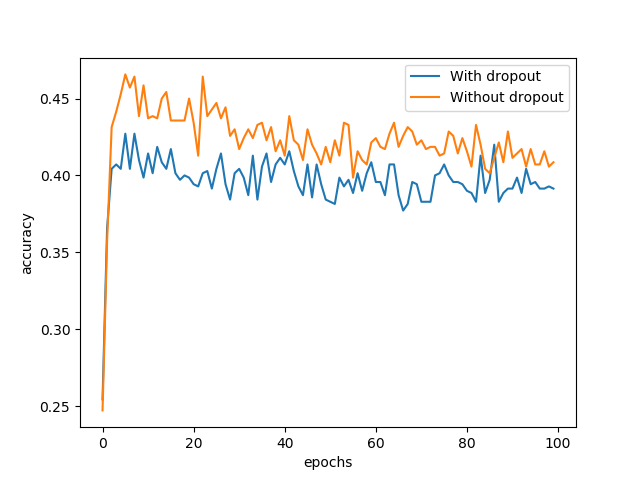
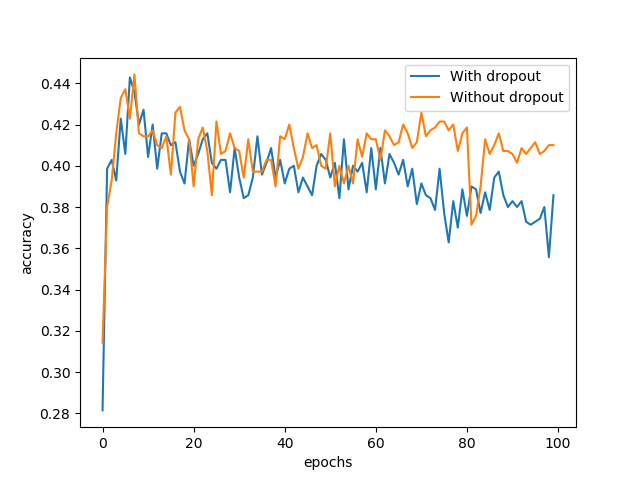
update

diff --git a/partb_5(3)_merged.py b/partb_5(3)_merged.py
@@ -3,6 +3,7 @@ import pandas
 import tensorflow as tf
 import csv
 import pylab
+import time
 
 import os
 
@@ -115,7 +116,7 @@ def main():
     with tf.Session() as sess:
         sess.run(tf.global_variables_initializer())
 
-        # training
+        # with dropout
         loss = []
         loss_batch = []
         acc = []
@@ -129,21 +130,30 @@ def main():
         N = len(x_train)
         idx = np.arange(N)
 
+        training_time_1 = 0     # with dropout
+        training_time_2 = 0     # without dropout
+        training_time = [[],[]]
+
+
         for e in range(no_epochs):
             np.random.shuffle(idx)
             trainX_batch, trainY_batch = x_train[idx], y_train[idx]
 
             for start, end in zip(range(0, N, batch_size), range(batch_size, N, batch_size)):
+                start1 = time.time()
                 word_list_, _, loss_  = sess.run([word_list, train_op, entropy], {x: trainX_batch[start:end], y_: trainY_batch[start:end], keep_prob:0.5})
                 loss_batch.append(loss_)
+                training_time_1 += time.time() - start1
 
                 #without dropout
+                start2 = time.time()
                 word_list2_, _, loss2_ = sess.run([word_list2, train_op2, entropy2], {x2: trainX_batch[start:end], y2_: trainY_batch[start:end]})
                 loss_batch2.append(loss2_)
+                training_time_2 += time.time() - start2
 
             loss.append(sum(loss_batch) / len(loss_batch))
             loss_batch[:] = []
-            acc.append(accuracy.eval(feed_dict={x: x_test, y_: y_test, keep_prob:0.5}))
+            acc.append(accuracy.eval(feed_dict={x: x_test, y_: y_test, keep_prob:1}))
 
             #without dropout
             loss2.append(sum(loss_batch2) / len(loss_batch2))
@@ -155,6 +165,12 @@ def main():
                 print('With dropout, epoch: %d, accuracy: %g' %(e, acc[e]))
                 print('Without dropout, epoch: %d, entropy: %g' % (e, loss2[e]))
                 print('Without dropout, epoch: %d, accuracy: %g' % (e, acc2[e]))
+
+        training_time[0] = training_time_1
+        training_time[1] = training_time_2
+        labels = ['With dropout', 'Without dropout']
+        x = [0,1]
+
 
         pylab.figure(1)
         pylab.plot(range(len(loss)), loss)
@@ -172,7 +188,15 @@ def main():
         pylab.legend(['With dropout', 'Without dropout'])
         pylab.savefig('figures/partb_5(3)_accuracy_merged.png')
 
+        pylab.figure(3)
+        pylab.plot(range(len(training_time)), training_time)
+        pylab.ylabel('training time')
+        pylab.xticks(x, labels)
+        pylab.savefig('figures/partb_5(3)_trainingtime_merged.png')
+
         pylab.show()
+
+        sess.close()
   
 if __name__ == '__main__':
     main()

diff --git a/partb_5(4)_merged.py b/partb_5(4)_merged.py
@@ -3,7 +3,7 @@ import pandas
 import tensorflow as tf
 import csv
 import pylab
-
+import time
 import os
 
 
@@ -134,21 +134,29 @@ def main():
         N = len(x_train)
         idx = np.arange(N)
 
+        training_time_1 = 0  # with dropout
+        training_time_2 = 0  # without dropout
+        training_time = [[], []]
+
         for e in range(no_epochs):
             np.random.shuffle(idx)
             trainX_batch, trainY_batch = x_train[idx], y_train[idx]
 
             for start, end in zip(range(0, N, batch_size), range(batch_size, N, batch_size)):
+                start1 = time.time()
                 word_list_, _, loss_  = sess.run([word_list, train_op, entropy], {x: trainX_batch[start:end], y_: trainY_batch[start:end], keep_prob:0.5})
                 loss_batch.append(loss_)
+                training_time_1 += time.time() - start1
 
                 # without dropout
+                start2 = time.time()
                 word_list2_, _, loss2_ = sess.run([word_list2, train_op2, entropy2],{x2: trainX_batch[start:end], y2_: trainY_batch[start:end]})
                 loss_batch2.append(loss2_)
+                training_time_2 += time.time() - start2
 
             loss.append(sum(loss_batch) / len(loss_batch))
             loss_batch[:] = []
-            acc.append(accuracy.eval(feed_dict={x: x_test, y_: y_test, keep_prob:0.5}))
+            acc.append(accuracy.eval(feed_dict={x: x_test, y_: y_test, keep_prob:1}))
 
             #without dropout
             loss2.append(sum(loss_batch2) / len(loss_batch2))
@@ -160,6 +168,11 @@ def main():
                 print('With dropout, epoch: %d, accuracy: %g' %(e, acc[e]))
                 print('Without dropout, epoch: %d, entropy: %g' % (e, loss2[e]))
                 print('Without dropout, epoch: %d, accuracy: %g' % (e, acc2[e]))
+
+        training_time[0] = training_time_1
+        training_time[1] = training_time_2
+        labels = ['With dropout', 'Without dropout']
+        x = [0, 1]
 
         pylab.figure(1)
         pylab.plot(range(len(loss)), loss)
@@ -177,7 +190,15 @@ def main():
         pylab.legend(['With dropout', 'Without dropout'])
         pylab.savefig('figures/partb_5(4)_accuracy_merged.png')
 
+        pylab.figure(3)
+        pylab.plot(range(len(training_time)), training_time)
+        pylab.ylabel('training time')
+        pylab.xticks(x, labels)
+        pylab.savefig('figures/partb_5(4)_trainingtime_merged.png')
+
         pylab.show()
+
+        sess.close()
   
 if __name__ == '__main__':
     main()

diff --git a/partb_5(2)_merged.py b/partb_5(2)_merged.py
@@ -3,7 +3,7 @@ import pandas
 import tensorflow as tf
 import csv
 import pylab
-
+import time
 import os
 
 if not os.path.isdir('figures'):
@@ -195,19 +195,27 @@ def main():
         #breaking down into batches
         N = len(x_train)
         idx = np.arange(N)
-        
+
+        training_time_1 = 0  # with dropout
+        training_time_2 = 0  # without dropout
+        training_time = [[], []]
+
         for e in range(no_epochs):
             np.random.shuffle(idx)
             trainX_batch, trainY_batch = x_train[idx], y_train[idx]
 
             #batch training
             for start, end in zip(range(0, N, batch_size), range(batch_size, N, batch_size)):
+                start1 = time.time()
                 _, loss_ = sess.run([train_op, entropy], {x: trainX_batch[start:end], y_: trainY_batch[start:end]})
                 loss_batch.append(loss_)
+                training_time_1 += time.time() - start1
 
                 #without dropout
+                start2 = time.time()
                 _, loss2_ = sess.run([train_op2, entropy2], {x2: trainX_batch[start:end], y2_: trainY_batch[start:end]})
                 loss_batch2.append(loss2_)
+                training_time_2 += time.time() - start2
 
             loss.append(sum(loss_batch)/len(loss_batch))
             loss_batch[:] = []
@@ -223,6 +231,11 @@ def main():
                 print('With dropout, iter: %d, accuracy: %g'%(e, test_acc[e]))
                 print('Without dropout, iter: %d, entropy: %g' % (e, loss2[e]))
                 print('Without dropout, iter: %d, accuracy: %g' % (e, test_acc2[e]))
+
+        training_time[0] = training_time_1
+        training_time[1] = training_time_2
+        labels = ['With dropout', 'Without dropout']
+        x = [0, 1]
 
         #plot figures here
         pylab.figure(1)
@@ -240,6 +253,12 @@ def main():
         pylab.ylabel('accuracy')
         pylab.legend(['With dropout', 'Without dropout'])
         pylab.savefig('figures/partb_5(2)_accuracy_merged.png')
+
+        pylab.figure(3)
+        pylab.plot(range(len(training_time)), training_time)
+        pylab.ylabel('training time')
+        pylab.xticks(x, labels)
+        pylab.savefig('figures/partb_5(3)_trainingtime_merge2.png')
 
         pylab.show()
         

diff --git a/partb_5(1)_merged.py b/partb_5(1)_merged.py
@@ -3,7 +3,7 @@ import pandas
 import tensorflow as tf
 import csv
 import pylab
-
+import time
 import os
 
 if not os.path.isdir('figures'):
@@ -181,17 +181,26 @@ def main():
         #breaking down into batches
         N = len(x_train)
         idx = np.arange(N)
+
+        training_time_1 = 0  # with dropout
+        training_time_2 = 0  # without dropout
+        training_time = [[], []]
         
         for e in range(no_epochs):
             np.random.shuffle(idx)
             trainX_batch, trainY_batch = x_train[idx], y_train[idx]
             #batch training
             for start, end in zip(range(0, N, batch_size), range(batch_size, N, batch_size)):
+                start1 = time.time()
                 _, loss_ = sess.run([train_op, entropy], {x: trainX_batch[start:end], y_: trainY_batch[start:end]})
                 loss_batch.append(loss_)
+                training_time_1 += time.time() - start1
 
+                #without dropout
+                start2 = time.time()
                 _, loss2_ = sess.run([train_op2, entropy2], {x2: trainX_batch[start:end], y2_: trainY_batch[start:end]})
                 loss_batch2.append(loss2_)
+                training_time_2 += time.time() - start2
 
             loss.append(sum(loss_batch)/len(loss_batch))
             loss_batch[:] = []
@@ -207,6 +216,11 @@ def main():
                 print('With droupout, iter: %d, accuracy: %g'%(e, test_acc[e]))
                 print('Without dropout, iter: %d, entropy: %g' % (e, loss2[e]))
                 print('Without droupout, iter: %d, accuracy: %g' % (e, test_acc2[e]))
+
+        training_time[0] = training_time_1
+        training_time[1] = training_time_2
+        labels = ['With dropout', 'Without dropout']
+        x = [0, 1]
 
         #plot figures here
         pylab.figure(1)
@@ -224,6 +238,12 @@ def main():
         pylab.ylabel('accuracy')
         pylab.legend(['With dropout', 'Without dropout'])
         pylab.savefig('figures/partb_5(1)_accuracy_merged.png')
+
+        pylab.figure(3)
+        pylab.plot(range(len(training_time)), training_time)
+        pylab.ylabel('training time')
+        pylab.xticks(x, labels)
+        pylab.savefig('figures/partb_5(1)_trainingtime_merged.png')
 
         pylab.show()
         

diff --git a/partb_6c(3)_merged.py b/partb_6c(3)_merged.py
@@ -20,7 +20,6 @@ batch_size = 128
 
 no_epochs = 100 #originally 100
 lr = 0.01
-#clipping_threshold = 2
 
 tf.logging.set_verbosity(tf.logging.ERROR)
 seed = 10
@@ -120,8 +119,6 @@ def main():
     entropy2 = tf.reduce_mean(tf.nn.softmax_cross_entropy_with_logits_v2(labels=tf.one_hot(y2_, MAX_LABEL), logits=logits2))
     train_op2 = tf.train.AdamOptimizer(lr).minimize(entropy2)
     accuracy2 = tf.reduce_mean(tf.cast(tf.equal(tf.argmax(logits2, axis=1), y2_), tf.float64))
-
-
 
     with tf.Session() as sess:
         sess.run(tf.global_variables_initializer())

diff --git a/partb_6a(3)_merged.py b/partb_6a(3)_merged.py
@@ -22,7 +22,7 @@ no_epochs = 100 #originally 100
 lr = 0.01
 
 tf.logging.set_verbosity(tf.logging.ERROR)
-seed = 10
+seed = 10   #originally 10
 tf.set_random_seed(seed)
 
 #is this a character model or word model???
@@ -45,7 +45,6 @@ def rnn_model_lstm(x):
 
     cell = tf.nn.rnn_cell.BasicLSTMCell(HIDDEN_SIZE)
     outputs, states = tf.nn.static_rnn(cell, byte_list, dtype=tf.float32)
-
 
     logits = tf.layers.dense(states[-1], MAX_LABEL, activation=tf.nn.softmax)
 
